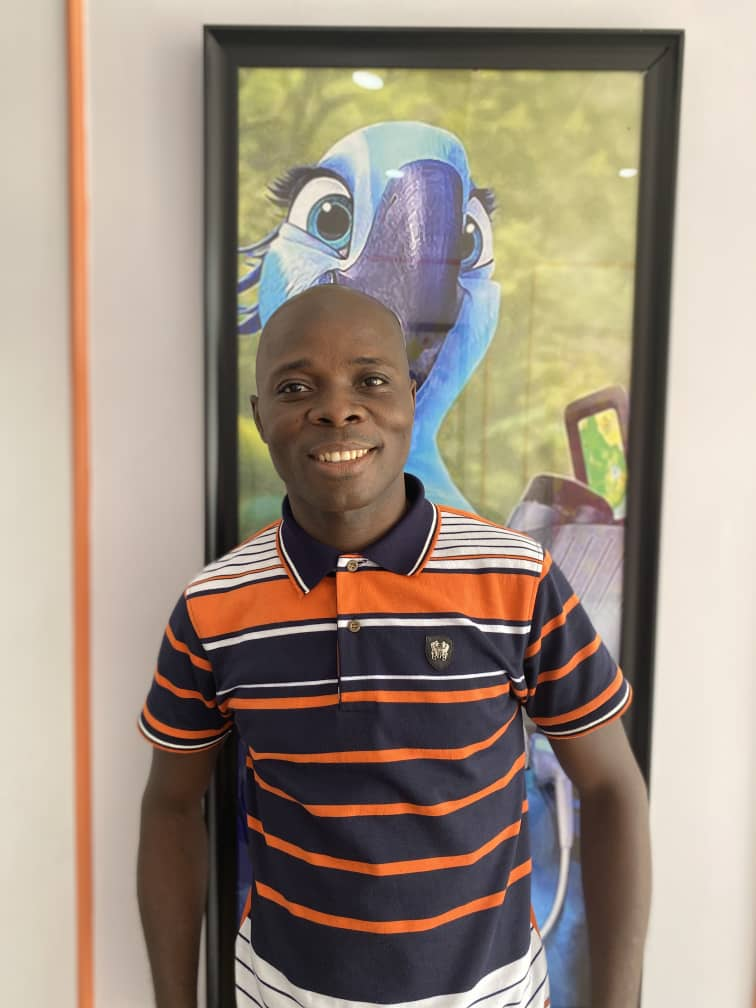
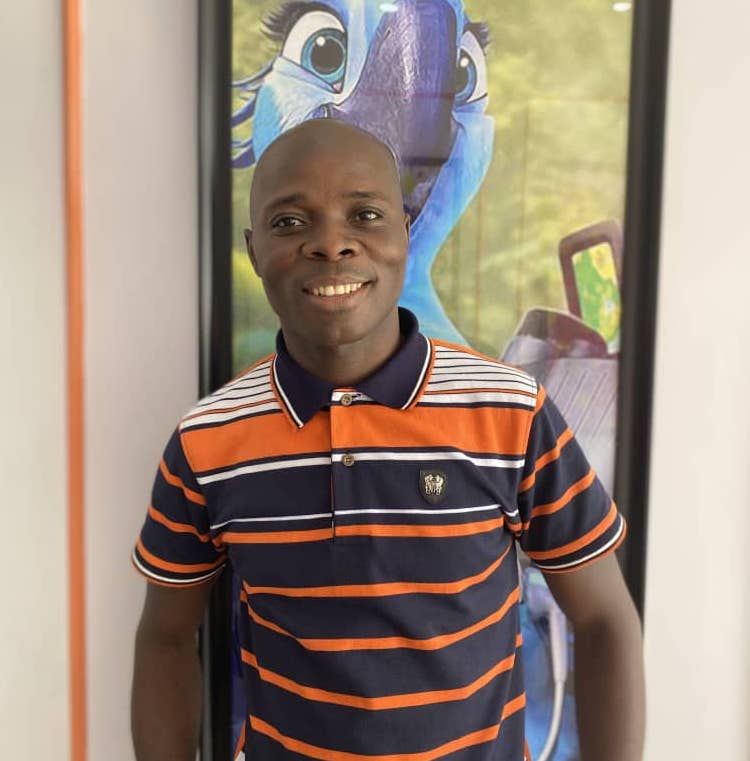
added pics final and changed IG address

diff --git a/about.html b/about.html
@@ -279,7 +279,7 @@
           <div class="col-lg-3 col-md-6 d-flex align-items-stretch">
             <div class="member" data-aos="fade-up" >
               <div class="member-img">
-                <img src="https://childcareclinics.com/wp-content/uploads/2020/12/Eseh-Okpu-Oghogho-213x420.jpg" class="img-fluid" alt="">
+                <img src="assets/img/team/ese.jpeg" class="img-fluid" alt="">
              <!--    <div class="social">
                   <a href=""><i class="bi bi-twitter"></i></a>
                   <a href=""><i class="bi bi-facebook"></i></a>
@@ -601,7 +601,7 @@
                                   <!-- Portfolio Modal - Title-->
                                   <h2 class="portfolio-modal-title text-secondary text-uppercase mb-3" id="portfolioModal9Label">Eseh-Okpu Oghogho</h2>
                                   <!-- Portfolio Modal - Image-->
-                                  <img class="img-fluid rounded mb-5" src="" alt="" />
+                                  <img class="img-fluid rounded mb-5" src="assets/img/team/ese.jpeg" alt="" />
                                   <!-- Portfolio Modal - Text-->
                                   <p class="mb-3">Eseh-OkpuOghogho, born May 21st, from Delta state is a registered pediatric nurse who joined childcare and wellness team of nurses a few years ago. She has had a very fulfilling working here, as the workplace is the friendliest one could ever desire. She loves reading and singing but dislikes laziness.</p>
                                   <button class="btn btn-primary mt-2" data-dismiss="modal">
@@ -625,7 +625,7 @@
                                     <!-- Portfolio Modal - Title-->
                                     <h2 class="portfolio-modal-title text-secondary text-uppercase mb-3" id="portfolioModal10Label">Achor Okwubile</h2>
                                     <!-- Portfolio Modal - Image-->
-                                    <img class="img-fluid rounded mb-5" src="" alt="" />
+                                    <img class="img-fluid rounded mb-5" src="assets/img/team/achor.jpeg" alt="" />
                                     <!-- Portfolio Modal - Text-->
                                     <p class="mb-3">Mr. Achor Ukwubile from Kogi state, Nigeria is an alumnus of Benue State Polytechnic Ugbokolo where he earned a Diploma degree in Banking and Finance. His hobbies include reading, teaching and watching football at his leisure. He joined childcare and wellness clinics in 2014 and till date he is super dedicated and committed to his job, where he executes his duties with little or no supervision.</p>
                                     <button class="btn btn-primary mt-2" data-dismiss="modal">
@@ -697,7 +697,7 @@
         <div class="social-links text-center text-md-right pt-3 pt-md-0">
           <a href="https://twitter.com/CWClinics" target = "_blank" class="twitter"><i class="bx bxl-twitter"></i></a>
           <a href="https://www.facebook.com/childcare.clinics.5" target = "_blank" class="facebook"><i class="bx bxl-facebook"></i></a>
-          <a href="https://www.instagram.com/cwc_abuja/" target = "_blank class="instagram"><i class="bx bxl-instagram"></i></a>
+          <a href="https://www.instagram.com/Cwc_clinics/" target = "_blank class="instagram"><i class="bx bxl-instagram"></i></a>
         </div>
     </div>
 

diff --git a/contact.html b/contact.html
@@ -288,7 +288,7 @@
         <div class="social-links text-center text-md-right pt-3 pt-md-0">
           <a href="https://twitter.com/CWClinics" target = "_blank" class="twitter"><i class="bx bxl-twitter"></i></a>
           <a href="https://www.facebook.com/childcare.clinics.5" target = "_blank" class="facebook"><i class="bx bxl-facebook"></i></a>
-          <a href="https://www.instagram.com/cwc_abuja/" target = "_blank class="instagram"><i class="bx bxl-instagram"></i></a>
+          <a href="https://www.instagram.com/Cwc_clinics/" target = "_blank class="instagram"><i class="bx bxl-instagram"></i></a>
         </div>
       </div>
 

diff --git a/tips/antibiotics.html b/tips/antibiotics.html
@@ -323,7 +323,7 @@
         <div class="social-links text-center text-md-right pt-3 pt-md-0">
           <a href="https://twitter.com/CWClinics" target = "_blank" class="twitter"><i class="bx bxl-twitter"></i></a>
           <a href="https://www.facebook.com/childcare.clinics.5" target = "_blank" class="facebook"><i class="bx bxl-facebook"></i></a>
-          <a href="https://www.instagram.com/cwc_abuja/" target = "_blank class="instagram"><i class="bx bxl-instagram"></i></a>
+          <a href="https://www.instagram.com/Cwc_clinics/" target = "_blank class="instagram"><i class="bx bxl-instagram"></i></a>
         </div>
       </div>
 

diff --git a/tips/cold_remedies.html b/tips/cold_remedies.html
@@ -281,7 +281,7 @@
         <div class="social-links text-center text-md-right pt-3 pt-md-0">
           <a href="https://twitter.com/CWClinics" target = "_blank" class="twitter"><i class="bx bxl-twitter"></i></a>
           <a href="https://www.facebook.com/childcare.clinics.5" target = "_blank" class="facebook"><i class="bx bxl-facebook"></i></a>
-          <a href="https://www.instagram.com/cwc_abuja/" target = "_blank class="instagram"><i class="bx bxl-instagram"></i></a>
+          <a href="https://www.instagram.com/Cwc_clinics/" target = "_blank class="instagram"><i class="bx bxl-instagram"></i></a>
         </div>
       </div>
 

diff --git a/tips/dental_health.html b/tips/dental_health.html
@@ -267,7 +267,7 @@
         <div class="social-links text-center text-md-right pt-3 pt-md-0">
           <a href="https://twitter.com/CWClinics" target = "_blank" class="twitter"><i class="bx bxl-twitter"></i></a>
           <a href="https://www.facebook.com/childcare.clinics.5" target = "_blank" class="facebook"><i class="bx bxl-facebook"></i></a>
-          <a href="https://www.instagram.com/cwc_abuja/" target = "_blank class="instagram"><i class="bx bxl-instagram"></i></a>
+          <a href="https://www.instagram.com/Cwc_clinics/" target = "_blank class="instagram"><i class="bx bxl-instagram"></i></a>
         </div>
       </div>
 

diff --git a/tips/fever.html b/tips/fever.html
@@ -239,7 +239,7 @@
         <div class="social-links text-center text-md-right pt-3 pt-md-0">
           <a href="https://twitter.com/CWClinics" target = "_blank" class="twitter"><i class="bx bxl-twitter"></i></a>
           <a href="https://www.facebook.com/childcare.clinics.5" target = "_blank" class="facebook"><i class="bx bxl-facebook"></i></a>
-          <a href="https://www.instagram.com/cwc_abuja/" target = "_blank class="instagram"><i class="bx bxl-instagram"></i></a>
+          <a href="https://www.instagram.com/Cwc_clinics/" target = "_blank class="instagram"><i class="bx bxl-instagram"></i></a>
         </div>
       </div>
 

diff --git a/tips/growth.html b/tips/growth.html
@@ -282,7 +282,7 @@
         <div class="social-links text-center text-md-right pt-3 pt-md-0">
           <a href="https://twitter.com/CWClinics" target = "_blank" class="twitter"><i class="bx bxl-twitter"></i></a>
           <a href="https://www.facebook.com/childcare.clinics.5" target = "_blank" class="facebook"><i class="bx bxl-facebook"></i></a>
-          <a href="https://www.instagram.com/cwc_abuja/" target = "_blank class="instagram"><i class="bx bxl-instagram"></i></a>
+          <a href="https://www.instagram.com/Cwc_clinics/" target = "_blank class="instagram"><i class="bx bxl-instagram"></i></a>
         </div>
       </div>
 

diff --git a/tips/immunisations.html b/tips/immunisations.html
@@ -252,7 +252,7 @@
         <div class="social-links text-center text-md-right pt-3 pt-md-0">
           <a href="https://twitter.com/CWClinics" target = "_blank" class="twitter"><i class="bx bxl-twitter"></i></a>
           <a href="https://www.facebook.com/childcare.clinics.5" target = "_blank" class="facebook"><i class="bx bxl-facebook"></i></a>
-          <a href="https://www.instagram.com/cwc_abuja/" target = "_blank class="instagram"><i class="bx bxl-instagram"></i></a>
+          <a href="https://www.instagram.com/Cwc_clinics/" target = "_blank class="instagram"><i class="bx bxl-instagram"></i></a>
         </div>
       </div>
 

diff --git a/tips/info.html b/tips/info.html
@@ -255,7 +255,7 @@
         <div class="social-links text-center text-md-right pt-3 pt-md-0">
           <a href="https://twitter.com/CWClinics" target = "_blank" class="twitter"><i class="bx bxl-twitter"></i></a>
           <a href="https://www.facebook.com/childcare.clinics.5" target = "_blank" class="facebook"><i class="bx bxl-facebook"></i></a>
-          <a href="https://www.instagram.com/cwc_abuja/" target = "_blank class="instagram"><i class="bx bxl-instagram"></i></a>
+          <a href="https://www.instagram.com/Cwc_clinics/" target = "_blank class="instagram"><i class="bx bxl-instagram"></i></a>
         </div>
       </div>
 

diff --git a/tips/jaundice.html b/tips/jaundice.html
@@ -266,7 +266,7 @@
         <div class="social-links text-center text-md-right pt-3 pt-md-0">
           <a href="https://twitter.com/CWClinics" target = "_blank" class="twitter"><i class="bx bxl-twitter"></i></a>
           <a href="https://www.facebook.com/childcare.clinics.5" target = "_blank" class="facebook"><i class="bx bxl-facebook"></i></a>
-          <a href="https://www.instagram.com/cwc_abuja/" target = "_blank class="instagram"><i class="bx bxl-instagram"></i></a>
+          <a href="https://www.instagram.com/Cwc_clinics/" target = "_blank class="instagram"><i class="bx bxl-instagram"></i></a>
         </div>
       </div>
 

diff --git a/tips/nutrition.html b/tips/nutrition.html
@@ -302,7 +302,7 @@
         <div class="social-links text-center text-md-right pt-3 pt-md-0">
           <a href="https://twitter.com/CWClinics" target = "_blank" class="twitter"><i class="bx bxl-twitter"></i></a>
           <a href="https://www.facebook.com/childcare.clinics.5" target = "_blank" class="facebook"><i class="bx bxl-facebook"></i></a>
-          <a href="https://www.instagram.com/cwc_abuja/" target = "_blank class="instagram"><i class="bx bxl-instagram"></i></a>
+          <a href="https://www.instagram.com/Cwc_clinics/" target = "_blank class="instagram"><i class="bx bxl-instagram"></i></a>
         </div>
       </div>
 

diff --git a/tips/tonsils.html b/tips/tonsils.html
@@ -244,7 +244,7 @@
         <div class="social-links text-center text-md-right pt-3 pt-md-0">
           <a href="https://twitter.com/CWClinics" target = "_blank" class="twitter"><i class="bx bxl-twitter"></i></a>
           <a href="https://www.facebook.com/childcare.clinics.5" target = "_blank" class="facebook"><i class="bx bxl-facebook"></i></a>
-          <a href="https://www.instagram.com/cwc_abuja/" target = "_blank class="instagram"><i class="bx bxl-instagram"></i></a>
+          <a href="https://www.instagram.com/Cwc_clinics/" target = "_blank class="instagram"><i class="bx bxl-instagram"></i></a>
         </div>
       </div>
 
